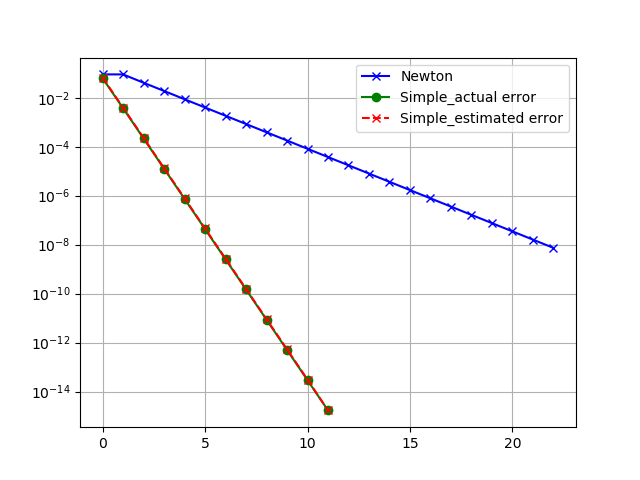
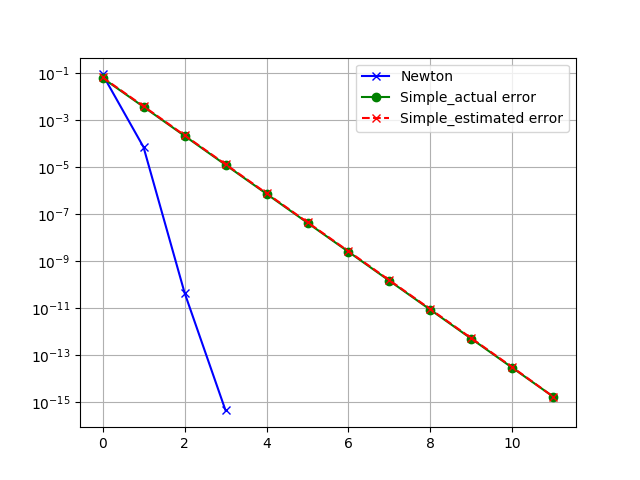
Ex10_4

diff --git a/Ue10/Ex10_3.py b/Ue10/Ex10_3.py
@@ -55,14 +55,15 @@ def g(x):
 
 def dg(x):
     diff = x[0]-x[1]
-    return np.array( [[2*(1-0.01*diff), 2*(1+0.01*diff)],\
-                    [1, 2]], dtype = float)
+    return np.array( [[2*(1-0.01*diff), 1+0.02*diff],\
+                        [1, 2]], dtype = float)
 
 def netwonXD(xn,f,df):
     if np.linalg.det(df(xn)):
         res = f(xn)
         corr = np.linalg.solve(df(xn),res)
-        return xn - corr, res
+        xNew = xn - corr
+        return xNew, f(xNew)
     else:
         print("df is noninvertible->cant be solved...returning input point x_n!")
         return xn, 0*xn
@@ -79,6 +80,8 @@ if __name__ == "__main__":
     print(eq.close(1e-16))
     print(np.linalg.norm(np.dot(A,xFin) - eq.rhs(xFin)))
     eq.calcErrors()
+    print("Errors: ")
+    print(eq.estErrors)
     ##########################
     print("-"*30)
     print("Now Newton: ")
@@ -94,21 +97,18 @@ if __name__ == "__main__":
         xn1, res = netwonXD(x,g,dg)
         error.append(np.linalg.norm(res))
         if np.linalg.norm(res) < eps or np.allclose(x,xn1,rtol=eps):
-            # print("x:\n",x)
-            # print("xn1:\n",xn1)
             print("Break condition: <xn, xnp1 close>")
             iterations = i+1
-            np.copyto(x, xn1)
+            np.copyto(x,xn1)
             break
         np.copyto(x, xn1)
     print("Arrived at solution after ",iterations," iterations.")
     print("final:\n",x)
     print("final error:\n",np.linalg.norm(np.dot(A,x) - g(x)))
-    x2 = np.power(1e-2,np.arange(0,iterations+1))
+    #x2 = np.power(1e-2,np.arange(0,iterations+1))
     plt.semilogy(np.arange(0,iterations+1),error,"bx-",label="Newton")
     plt.semilogy(np.arange(0,len(eq.errors)),eq.errors,"go-",label="Simple_actual error")
     plt.semilogy(np.arange(0,len(eq.estErrors)),eq.estErrors,"rx--",label="Simple_estimated error")
-    print(eq.estErrors)
     # plt.semilogy(np.arange(0,iterations+1),x2,"b-", label="order x^2 ???")
     plt.grid()
     plt.legend()

diff --git a/Ue10/Ex10_4.py b/Ue10/Ex10_4.py
@@ -1,0 +1,63 @@
+import numpy as np
+import matplotlib.pyplot as plt
+import os
+import scipy
+# import random
+
+def netwonXD(A,xn,f,df,n,h):
+    if np.linalg.det(df(xn,n,h)):
+        res = f(xn,n,h,A)
+        corr = np.linalg.solve(df(xn,n,h),res)
+        xNew = xn - corr
+        return xNew#, f(xNew,n,h,A)
+    else:
+        print("df is noninvertible->cant be solved...returning input point x_n!")
+        return xn, 0*xn
+
+def f(u,n,h,A):
+    ret = np.dot(A,u) + np.power(u,3) - np.ones(n,dtype=float)
+    return ret
+
+def df(u,n,h):
+    ret = np.diagflat(3*np.power(u,2) +2/h**2) - 1/h**2 * (np.eye(n,n,k=1) + np.eye(n,n,k=-1))
+    return ret
+
+if __name__ == "__main__":
+    n = 10
+    # n = int(input("n = "))
+    print("n = ",n," selected!")
+    h = n-1
+    A = 1/h**2 * (2*np.eye(n,n,dtype=float) - np.eye(n,n,k=1,dtype=float) - np.eye(n,n,k=1,dtype=float))
+    b = np.zeros(n,dtype=float)
+    ########
+    print("-"*30)
+    print("Now Newton: ")
+    #x = np.linalg.solve(A,b)
+    x = np.ones(n,dtype=float)
+    #print("Starting guess x0: ",x)
+    print("norm(g(x0)): ",np.linalg.norm(f(x,n,h,A)))
+    print("-"*30)
+    print("Iterating...please hold the line!")
+    eps = 1e-15
+    error = []
+    iterations = 100
+    for i in list(range(0,100)):
+        xn1 = netwonXD(A,x,f,df,n,h)
+        error.append(np.linalg.norm(xn1 - x))
+        if error[-1] < eps:# or np.allclose(x,xn1,rtol=eps):
+            print("Break condition: <xn, xnp1 close>")
+            iterations = i+1
+            np.copyto(x,xn1)
+            break
+        np.copyto(x, xn1)
+    close = np.allclose(f(x,n,h,A),b,rtol=eps)
+    print("Is it closed? ",close)
+    print("Iterations: ", iterations)
+    print(error)
+    plt.semilogy(np.arange(0,iterations,step=1),error,"bx-",label="Newton")
+    plt.grid()
+    plt.legend()
+    # plt.show()
+    scriptpath = os.path.dirname(__file__)
+    plt.savefig(os.path.join(scriptpath,"Ex10_4.png")) 
+

diff --git a/Ue10/Ex10_2.py b/Ue10/Ex10_2.py
@@ -83,9 +83,8 @@ if __name__ == "__main__":
     print("final error:\n",np.linalg.norm(f(x)))
     x2 = np.power(1e-2,np.arange(0,iterations+1))
     plt.semilogy(np.arange(0,iterations+1),error,"rx-")
-    plt.semilogy(np.arange(0,iterations+1),x2,"b-")
+    #plt.semilogy(np.arange(0,iterations+1),x2,"b-")
     plt.grid()
-    plt.show()
     scriptpath = os.path.dirname(__file__)
     plt.savefig(os.path.join(scriptpath,"Ex10_2.png")) 
     
